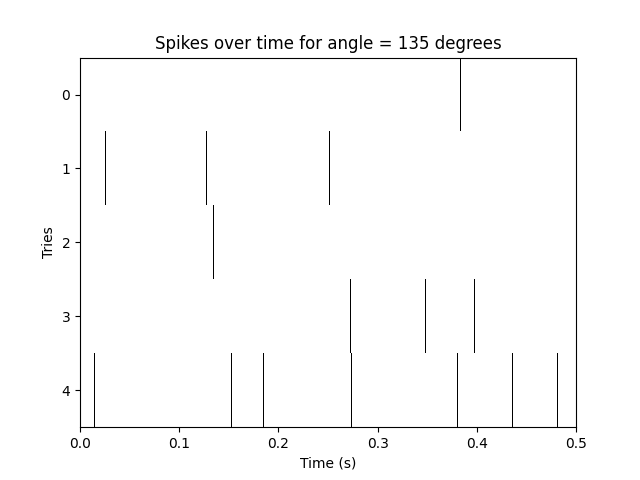
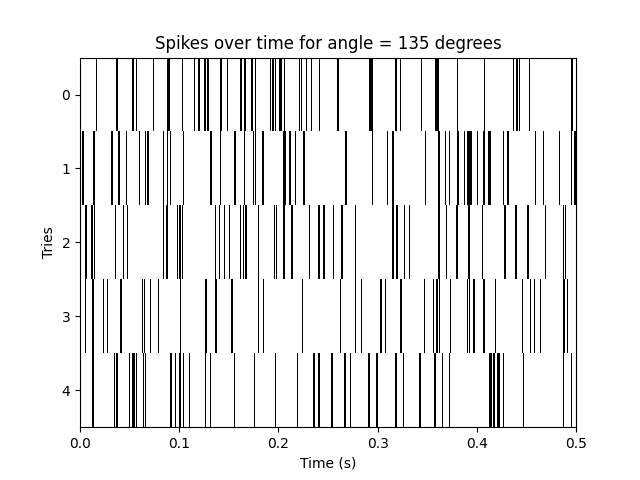
fixed spike bar thickness

diff --git a/one_neuron.py b/one_neuron.py
@@ -47,9 +47,15 @@ for angle in ANGLES:
     # adding data to dict for later analysis
     exp_data[angle] = spikes
 
+    thickness = 7
+    spikes_copy = np.zeros(shape=spikes.shape)
+    for i in range(spikes_copy.shape[0]):
+        for j in range(spikes_copy.shape[1]):
+            if 1. in spikes[i, max(j-thickness, 0):min(j+thickness, spikes.shape[1])]:
+                spikes_copy[i, j] = 1.
+
     # plot
-    # TODO thicken bars
-    plt.imshow(spikes,aspect='auto', cmap='Greys', interpolation='nearest')
+    plt.imshow(spikes_copy, aspect='auto', cmap='Greys', interpolation='nearest')
     og_xticks = plt.xticks()[0]
     plt.xticks(og_xticks, [str(tick*10**-4) for tick in og_xticks])
     plt.xlim(0, LT)
